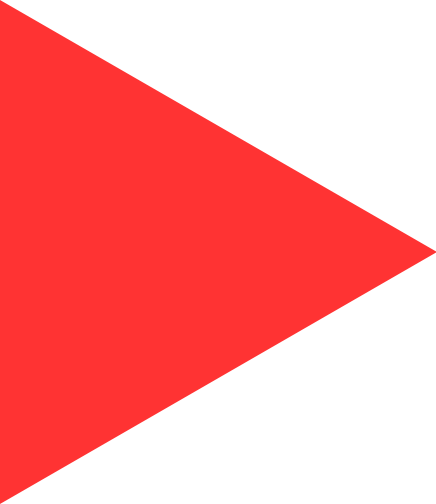
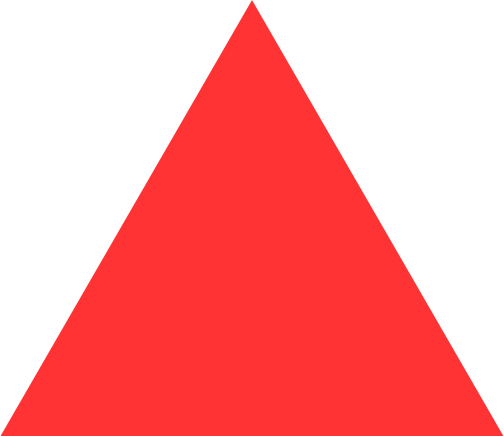
Placement du joueur

diff --git a/LudumDare35/LudumDare35/app.js b/LudumDare35/LudumDare35/app.js
@@ -14,10 +14,10 @@ var SimpleGame;
             _super.apply(this, arguments);
         }
         Boot.prototype.preload = function () {
-            this.load.image('preloadBar', 'assets/loader.png');
+            //this.load.image('preloadBar', 'assets/loader.png');
         };
         Boot.prototype.create = function () {
-            //console.log('hello');
+            console.log('Boot');
             //Game.physics.startSystem(Phaser.Physics.ARCADE);
             //  Set the world (global) gravity
             //Game.physics.arcade.gravity.y = 500;
@@ -51,27 +51,38 @@ var SimpleGame;
     var Player = (function (_super) {
         __extends(Player, _super);
         function Player(game, x, y) {
-            //super(game, x, y, 'simon', 0);
-            _super.call(this, game, x, y, 'knight', 0);
-            this.anchor.setTo(0.5, 0);
-            this.animations.add('walk', [1, 2], 10, true);
+            _super.call(this, game, x, y, 'player', 0);
+            //game.add.image(40, 100, 'player');
+            this.anchor.setTo(0.5, 0.5);
+            this.width = 10;
+            this.height = 10;
+            //this.animations.add('walk', [1, 2], 10, true);
             //this.animations.add('walk', [0, 1, 2, 3, 4], 10, true);
-            game.physics.enable(this, Phaser.Physics.ARCADE);
+            //game.physics.enable(this, Phaser.Physics.ARCADE);
+            this.scale.setTo(this.width, this.height);
             game.add.existing(this);
-            this.body.gravity.y = 200;
+            //this.body.gravity.y = 200;
         }
+        Player.prototype.create = function () {
+        };
         Player.prototype.update = function () {
+            /*
             this.body.velocity.x = 0;
+
             if (this.game.input.keyboard.isDown(Phaser.Keyboard.LEFT)) {
+                
                 this.body.velocity.x = -200;
                 this.animations.play('walk');
+
                 if (this.scale.x == 1) {
                     this.scale.x = -1;
                 }
             }
             else if (this.game.input.keyboard.isDown(Phaser.Keyboard.RIGHT)) {
+
                 this.body.velocity.x = 200;
                 this.animations.play('walk');
+
                 if (this.scale.x == -1) {
                     this.scale.x = 1;
                 }
@@ -79,6 +90,7 @@ var SimpleGame;
             else {
                 this.animations.frame = 0;
             }
+
             if (this.game.input.keyboard.isDown(Phaser.Keyboard.SPACEBAR)) {
                 console.log('hello');
                 this.body.velocity.y = -300;
@@ -86,6 +98,7 @@ var SimpleGame;
                     this.scale.y = 1;
                 }
             }
+            */
         };
         return Player;
     })(Phaser.Sprite);
@@ -107,7 +120,8 @@ var SimpleGame;
     var Game = (function (_super) {
         __extends(Game, _super);
         function Game() {
-            _super.call(this, 700, 500, Phaser.AUTO, 'content', null);
+            _super.call(this, Game.global.screenWidth, Game.global.screenHeight, Phaser.AUTO, 'content', null);
+            this.self = this;
             this.state.add('Boot', SimpleGame.Boot, false);
             this.state.add('Preloader', SimpleGame.Preloader, false);
             this.state.add('MainMenu', SimpleGame.MainMenu, false);
@@ -122,9 +136,10 @@ var SimpleGame;
             //this.debug.game;
         };
         Game.global = {
-            playerWidth: 130,
-            playerHeight: 284,
-            test: 200
+            playerX: 350,
+            playerY: 250,
+            screenWidth: 700,
+            screenHeight: 500
         };
         return Game;
     })(Phaser.Game);
@@ -137,14 +152,22 @@ var SimpleGame;
         function Level1() {
             _super.apply(this, arguments);
         }
+        Level1.prototype.preload = function () {
+            console.log('tilemap');
+            this.load.tilemap('level', 'assets/images/levels/level1/map1.json', null, Phaser.Tilemap.TILED_JSON);
+            this.load.image('player', 'assets/images/elements/playerTriangle.png');
+        };
         Level1.prototype.create = function () {
             this.platform = this.add.image(0, 0);
             //this.background = this.add.sprite(0, 0, 'level1');
             //Physics doesn't work
             //Game.physics.enable(this, Phaser.Physics.ARCADE);
-            this.music = this.add.audio('music', 1, false);
+            /*this.music = this.add.audio('music', 1, false);
             this.music.play();
-            this.player = new SimpleGame.Player(this.game, SimpleGame.Game.global.playerWidth, SimpleGame.Game.global.playerHeight);
+            */
+            this.player = new SimpleGame.Player(this.game, SimpleGame.Game.global.playerX, SimpleGame.Game.global.playerY);
+            this.map = this.add.tilemap('level');
+            this.map.addTilesetImage('Calque de Tile 1', 'tiles');
         };
         return Level1;
     })(Phaser.State);
@@ -159,20 +182,21 @@ var SimpleGame;
         }
         Preloader.prototype.preload = function () {
             //  Set-up our preloader sprite
-            this.preloadBar = this.add.sprite(200, 250, 'preloadBar');
-            this.load.setPreloadSprite(this.preloadBar);
+            //this.preloadBar = this.add.sprite(200, 250, 'preloadBar');
+            // this.load.setPreloadSprite(this.preloadBar);
             //  Load our actual games assets
-            this.load.image('titlepage', 'assets/titlepage.jpg');
-            this.load.image('logo', 'assets/logo.png');
-            this.load.audio('music', 'assets/title.mp3', true);
+            //this.load.image('titlepage', 'assets/titlepage.jpg');
+            //this.load.image('logo', 'assets/logo.png');
+            //this.load.audio('music', 'assets/title.mp3', true);
             //this.load.spritesheet('simon', 'assets/simon.png', 58, 96, 5);
-            this.load.spritesheet('knight', 'assets/knight2.png', 48, 96, 3);
-            this.load.image('level1', 'assets/level1.png');
-            this.load.image('platform', 'assets/platform.png');
+            //this.load.spritesheet('knight', 'assets/knight2.png', 48, 96, 3);
+            //this.load.image('level1', 'assets/level1.png');
+            //this.load.image('platform', 'assets/platform.png');
         };
         Preloader.prototype.create = function () {
-            var tween = this.add.tween(this.preloadBar).to({ alpha: 0 }, 1000, Phaser.Easing.Linear.None, true);
-            tween.onComplete.add(this.startMainMenu, this);
+            //var tween = this.add.tween(this.preloadBar).to({ alpha: 0 }, 1000, Phaser.Easing.Linear.None, true);
+            // tween.onComplete.add(this.startMainMenu, this);
+            this.startMainMenu();
         };
         Preloader.prototype.startMainMenu = function () {
             //this.game.state.start('MainMenu', true, false);

diff --git a/LudumDare35/LudumDare35/src/Elements/Player.ts b/LudumDare35/LudumDare35/src/Elements/Player.ts
@@ -1,22 +1,29 @@
 module SimpleGame {
 
     export class Player extends Phaser.Sprite {
-
+         
         constructor(game: Phaser.Game, x: number, y: number) {
-            
-            //super(game, x, y, 'simon', 0);
-            super(game, x, y, 'knight', 0);
-            this.anchor.setTo(0.5, 0);
-            this.animations.add('walk', [1, 2], 10, true);
+            super(game, x, y, 'player', 0);
+            //game.add.image(40, 100, 'player');
+            this.anchor.setTo(0.5, 0.5);
+
+            this.width = 10;
+            this.height = 10;
+            //this.animations.add('walk', [1, 2], 10, true);
             //this.animations.add('walk', [0, 1, 2, 3, 4], 10, true);
-            game.physics.enable(this, Phaser.Physics.ARCADE);
-
+            //game.physics.enable(this, Phaser.Physics.ARCADE);
+            this.scale.setTo(this.width, this.height);
             game.add.existing(this);
-            this.body.gravity.y = 200;
-
+            //this.body.gravity.y = 200;
         }
-        update() {
+
+        create() {
             
+            
+        }
+
+        update() {
+            /*
             this.body.velocity.x = 0;
 
             if (this.game.input.keyboard.isDown(Phaser.Keyboard.LEFT)) {
@@ -48,6 +55,7 @@
                     this.scale.y = 1;
                 }
             }
+            */
         }
 
     }

diff --git a/LudumDare35/LudumDare35/src/Game/Game.ts b/LudumDare35/LudumDare35/src/Game/Game.ts
@@ -1,15 +1,17 @@
 module SimpleGame {
     export class Game extends Phaser.Game {
-
+        
+        private self = this;
+        
         static global = {
-            playerWidth: 130,
-            playerHeight: 284,
-            test: 200
+            playerX: 350,
+            playerY: 250,
+            screenWidth: 700,
+            screenHeight: 500
         };
 
         constructor() {
-            super(700, 500, Phaser.AUTO, 'content', null);
-
+            super(Game.global.screenWidth, Game.global.screenHeight, Phaser.AUTO, 'content', null);
             this.state.add('Boot', Boot, false);
             this.state.add('Preloader', Preloader, false);
             this.state.add('MainMenu', MainMenu, false);

diff --git a/LudumDare35/LudumDare35/src/Level/Level1.ts b/LudumDare35/LudumDare35/src/Level/Level1.ts
@@ -11,6 +11,7 @@
         preload() {
             console.log('tilemap');
             this.load.tilemap('level', 'assets/images/levels/level1/map1.json', null, Phaser.Tilemap.TILED_JSON);
+            this.load.image('player', 'assets/images/elements/playerTriangle.png');
         }
 
         create() {
@@ -22,8 +23,8 @@
 
             /*this.music = this.add.audio('music', 1, false);
             this.music.play();
-
-            this.player = new Player(this.game, Game.global.playerWidth, Game.global.playerHeight);*/
+            */
+            this.player = new Player(this.game, Game.global.playerX, Game.global.playerY);
            
             this.map = this.add.tilemap('level');
 
